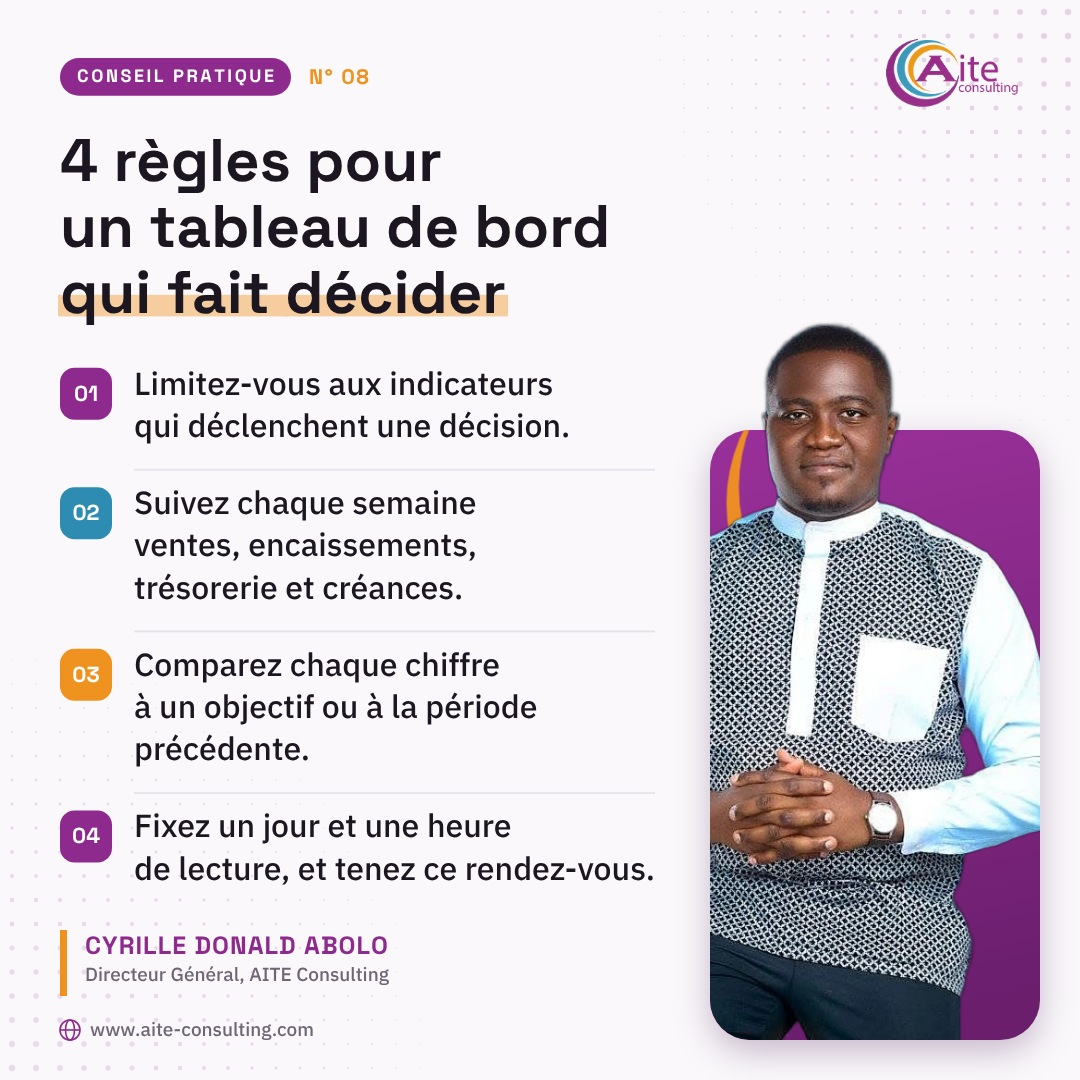
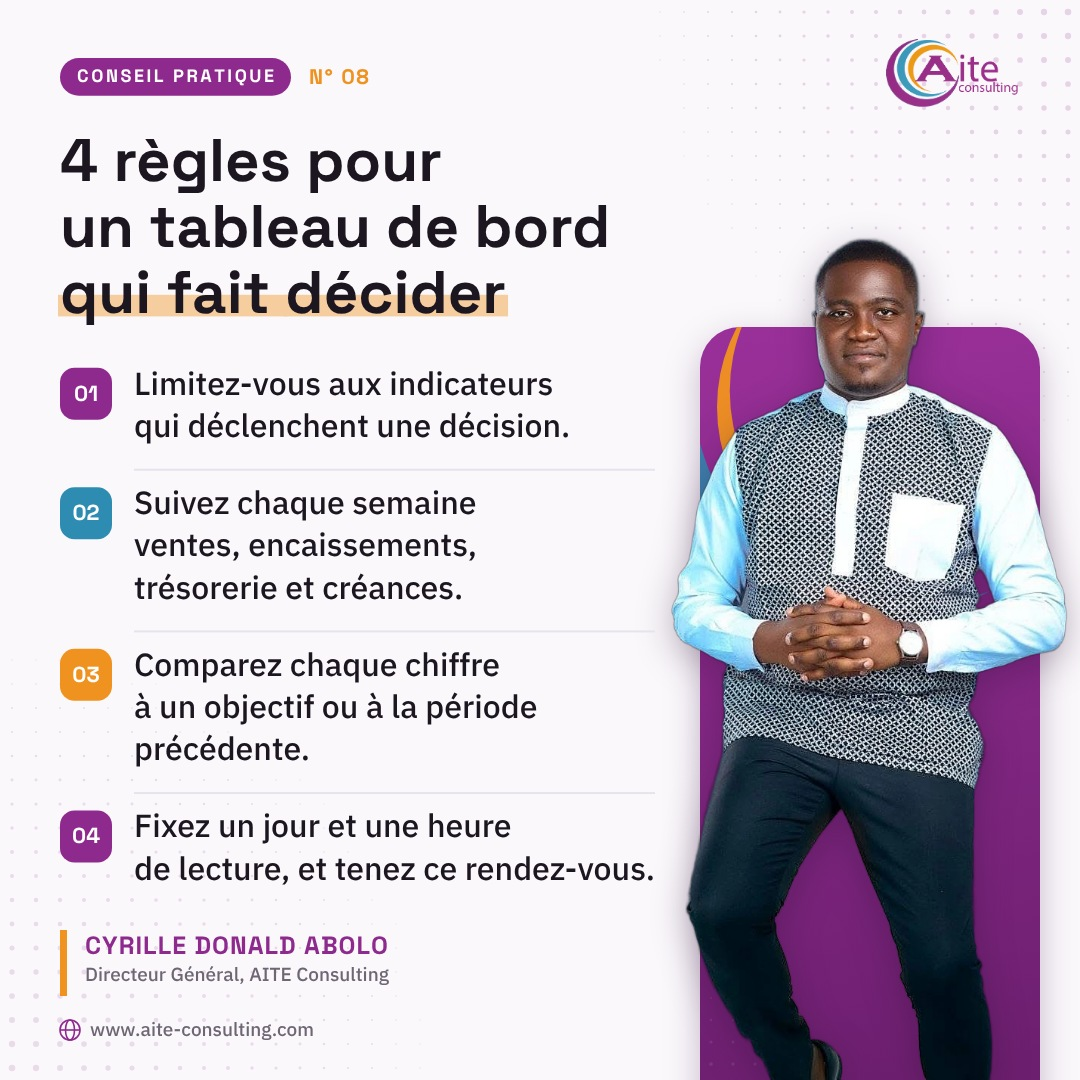
Studio de contenus : silhouette du DG toujours entière
À la demande du DG, la personne n'est plus coupée par les côtés du cadre
photo (bras, mains) sur les modèles conseil et citation :

- nouveau cadrage cadrer() : la silhouette tient en entier dans sa bande,
  réduite si elle est trop large, et seul le bas de la photo peut être coupé
  (par le bord du visuel ou le bas de la carte) ;
- conseil : la personne se tient devant le bloc violet, qui descend jusqu'au
  bas du visuel et commence sous le menton ; la tête dépasse ;
- citation : la personne tient entière dans la carte, à droite du panneau ;
  en story, la carte descend jusqu'en bas et la signature passe à gauche de
  la personne ;
- les photos plein pied (tunique) apparaissent en entier quand la place le
  permet.

Les 30 visuels de sortie/ sont régénérés.

Claude-Session: https://claude.ai/code/session_01BJXucC3E4E9DNEtwEhWB9o

Changed region(s): [[0.6111, 0.2139, 1.0, 1.0]]

diff --git a/studio-contenus/src/rendu.js b/studio-contenus/src/rendu.js
@@ -406,22 +406,39 @@
     return min === Infinity ? Infinity : pl.x + min * pl.e;
   }
 
-  function bordDroit(ph, pl, y1, y2) {
-    let max = -Infinity;
-    const a = Math.max(0, Math.floor((y1 - pl.y) / pl.e)), b = Math.min(ph.h - 1, Math.ceil((y2 - pl.y) / pl.e));
-    for (let y = a; y <= b; y++) if (ph.droite[y] >= 0) max = Math.max(max, ph.droite[y]);
-    return max === -Infinity ? -Infinity : pl.x + max * pl.e;
+  // Cadre la personne entière dans la bande [x1, x2] : jamais coupée sur les
+  // côtés, seulement en bas (bord du visuel ou du cadre, à la hauteur bas).
+  // La tête mesure au plus teteH ; si la silhouette est trop large, la personne
+  // est réduite, et descend pour que le bas de la photo tombe sur le bas de la zone
+  // (sans remonter au-dessus de hautMin).
+  function cadrer(ph, z) {
+    const tete = Math.max(1, ph.menton - ph.teteHaut);
+    const emax = z.teteH / tete;
+    const mesurer = e => {
+      const haut = Math.max(z.hautMin, z.bas - e * (ph.h - ph.teteHaut));
+      const y = haut - ph.teteHaut * e;
+      const derniere = Math.min(ph.h - 1, Math.floor((z.bas - y) / e));
+      let g = Infinity, d = -Infinity;
+      for (let r = 0; r <= derniere; r++) if (ph.gauche[r] >= 0) { g = Math.min(g, ph.gauche[r]); d = Math.max(d, ph.droite[r]); }
+      return { haut, y, g, d };
+    };
+    let e = emax;
+    for (let i = 0; i < 6; i++) {
+      const m = mesurer(e);
+      const e2 = Math.min(emax, (z.x2 - z.x1) / Math.max(1, m.d - m.g));
+      if (Math.abs(e2 - e) < 1e-4) break;
+      e = e2;
+    }
+    const m = mesurer(e);
+    return { e, y: m.y, x: (z.x1 + z.x2) / 2 - (m.g + m.d) / 2 * e, haut: m.haut, tete: tete * e };
   }
 
-  // Décale la personne vers la gauche si ses mains touchent le bord droit du
-  // cadre (le bras gauche, lui, peut sortir du cadre), sans trop excentrer le visage.
-  function degagerMains(ph, pl, cadre, visageX) {
-    if (!ph.detouree) return pl;
-    const limite = cadre.x + cadre.l - 12;
-    const dr = bordDroit(ph, pl, cadre.y, cadre.y + cadre.h);
-    const dx = Math.min(dr - limite, visageX - (cadre.x + cadre.l * 0.36));
-    if (dx > 0) pl.x -= dx;
-    return pl;
+  function silhouette(ctx, ph, pl, bas, ombre) {
+    ctx.save();
+    ctx.beginPath(); ctx.rect(-50, -50, 99999, bas + 50); ctx.clip();
+    if (ombre) { ctx.shadowColor = ombre; ctx.shadowBlur = 36; ctx.shadowOffsetY = 10; }
+    ctx.drawImage(ph.img, pl.x, pl.y, ph.l * pl.e, ph.h * pl.e);
+    ctx.restore();
   }
 
   // Dessine la personne dans un cadre arrondi ; la tête peut dépasser au-dessus du cadre.
@@ -491,7 +508,7 @@
     if (!story) {
       panneau = ph ? { x: 40, y: 170 + 40 * (k - 1), l: 600, h: H - 170 - 40 * (k - 1) - 210 } : { x: 40, y: 170, l: W - 80, h: H - 170 - 190 };
       carte = { x: 600, y: 250 + 60 * (k - 1), l: 440, h: H - 250 - 60 * (k - 1) - 180, r: 40 };
-      regle = { visageX: 832, teteHaut: carte.y - 62, teteH: 205 + 45 * (k - 1) };
+      regle = { teteH: 205 + 45 * (k - 1) };
       sigPos = { x: carte.x + 8, y: carte.y + carte.h + 34, largeur: W - carte.x - 48 };
       sitePos = { x: 64, y: H - 50 };
       logoPos = { x: W - 48, y: 26, h: 80 };
@@ -499,12 +516,14 @@
       cadreLigne = ph ? { x: 250, y: 128, l: 740, h: bas - 128 } : { x: 250, y: 128, l: 740, h: panneau.h - 60 };
     } else {
       panneau = { x: 56, y: 280, l: W - 112, h: ph ? 790 : 1000 };
-      carte = { x: 110, y: 1185, l: W - 220, h: 430, r: 44 };
-      regle = { visageX: W / 2 + 40, teteHaut: 1100, teteH: 250 };
-      sigPos = { x: 130, y: 1645, largeur: W - 260 };
-      sitePos = { x: W / 2, y: 1785, centre: true };
+      // la carte descend jusqu'au bas du visuel : la personne y tient debout,
+      // la signature à sa gauche
+      carte = { x: 70, y: 1170, l: W - 140, h: H - 1170 + 60, r: 44 };
+      regle = { teteH: 250 };
+      sigPos = { x: 110, y: 1330, largeur: 400 };
+      sitePos = ph ? { x: 110, y: 1475 } : { x: W / 2, y: 1785, centre: true };
       logoPos = { x: W - 64, y: 118, h: 92 };
-      cadreLigne = { x: 150, y: 235, l: W - 300, h: ph ? 1250 : 800 };
+      cadreLigne = { x: 150, y: 235, l: W - 300, h: ph ? 1065 : 800 };
     }
 
     ctx.save();
@@ -520,8 +539,14 @@
       g.addColorStop(0, '#F3EAF4'); g.addColorStop(1, '#DCC8E0');
       remplirRect(ctx, carte.x, carte.y, carte.l, carte.h, carte.r, g);
       ctx.restore();
-      const pl = degagerMains(ph, placer(ph, regle, carte.y + carte.h), carte, regle.visageX);
-      personne(ctx, ph, carte, pl, { marge: 0 });
+      if (ph.detouree) {
+        const z = story
+          ? { x1: 530, x2: W - 80, bas: H, hautMin: panneau.y + panneau.h + 24, teteH: regle.teteH }
+          : { x1: panneau.x + panneau.l + 14, x2: carte.x + carte.l - 14, bas: carte.y + carte.h, hautMin: 150, teteH: regle.teteH };
+        silhouette(ctx, ph, cadrer(ph, z), z.bas);
+      } else {
+        personne(ctx, ph, carte, null, {});
+      }
     }
 
     // panneau violet
@@ -671,9 +696,17 @@
 
     // Bloc violet et personne. En story, le bloc occupe toute la largeur du
     // bas et porte aussi la signature ; sinon il tient la colonne de droite.
-    let bloc = null;
+    let bloc = null, pl = null, zp = null;
     if (ph || story) {
-      bloc = story ? { x: 50, y: 1290, l: W - 100, h: 470, r: 44 } : { x: 710, y: 430 + 120 * (k - 1), l: W - 710 - 40, h: H - 430 - 120 * (k - 1) - 40, r: 40 };
+      if (ph && ph.detouree) {
+        zp = story ? { x1: 600, x2: W - 30, bas: H, hautMin: 1150, teteH: 215 } : { x1: 672, x2: W - 14, bas: H, hautMin: 170, teteH: 172 + 40 * (k - 1) };
+        pl = cadrer(ph, zp);
+      }
+      // le bloc commence sous le menton (la tête dépasse) et descend jusqu'au bas du visuel
+      const haut = pl && !story ? Math.max(300, Math.min(560, pl.haut + pl.tete * 0.62)) : 430 + 120 * (k - 1);
+      bloc = story ? { x: 50, y: 1290, l: W - 100, h: H - 1290 + 60, r: 44 }
+        : pl ? { x: 700, y: haut, l: W - 700 - 40, h: H - haut + 60, r: 40 }
+        : { x: 710, y: haut, l: W - 710 - 40, h: H - haut - 40, r: 40 };
       ctx.save();
       ctx.shadowColor = 'rgba(67,18,74,.28)'; ctx.shadowBlur = 34; ctx.shadowOffsetY = 12;
       const gb = ctx.createLinearGradient(bloc.x, bloc.y, bloc.x + bloc.l * 0.4, bloc.y + bloc.h);
@@ -683,19 +716,13 @@
       ctx.save();
       ctx.beginPath(); rect(ctx, bloc.x, bloc.y, bloc.l, bloc.h, bloc.r); ctx.clip();
       const zone = story ? { x: bloc.x + bloc.l - 420, l: 420 } : { x: bloc.x, l: bloc.l };
-      const cxr = zone.x + zone.l * 0.55, cyr = bloc.y + (story ? bloc.h * 0.22 : bloc.h * 0.12);
+      const cxr = zone.x + zone.l * 0.55, cyr = bloc.y + (story ? 150 : 80);
       croissant(ctx, cxr, cyr, zone.l * 0.62, zone.l * 0.07, -0.7, 'rgba(46,140,178,.85)');
       croissant(ctx, cxr, cyr, zone.l * 0.50, zone.l * 0.055, -0.7, 'rgba(240,146,31,.95)');
       trame(ctx, bloc, [bloc.x, bloc.y + bloc.h], bloc.l * 0.6, { couleur: 'rgba(255,255,255,.09)', pas: 22, rMax: 3 });
       ctx.restore();
-      if (ph) {
-        const regle = story ? { visageX: zone.x + zone.l * 0.52, teteHaut: bloc.y - 125, teteH: 215 } : { visageX: bloc.x + bloc.l * 0.52, teteHaut: bloc.y - 105, teteH: 172 };
-        const cadre = story ? { x: zone.x - 40, y: bloc.y, l: zone.l + 40 + (bloc.x + bloc.l - zone.x - zone.l), h: bloc.h, r: bloc.r } : bloc;
-        ctx.save();
-        ctx.beginPath(); rect(ctx, bloc.x, 0, bloc.l, bloc.y + bloc.h, story ? 0 : bloc.r); ctx.clip();
-        personne(ctx, ph, cadre, degagerMains(ph, placer(ph, regle, bloc.y + bloc.h), cadre, regle.visageX), { marge: 0 });
-        ctx.restore();
-      }
+      if (pl) silhouette(ctx, ph, pl, H, 'rgba(40,10,45,.30)');
+      else if (ph) personne(ctx, ph, bloc, null, {});
     }
 
     // en-tête : étiquette, numéro, logo
@@ -755,7 +782,7 @@
     // pied : signature et site
     const site = pub.site || SITE;
     if (story) {
-      const sx = bloc.x + 44, sy = bloc.y + bloc.h - 190;
+      const sx = bloc.x + 44, sy = 1560;
       signature(ctx, sig, sx, sy, { hauteur: 84, retrait: 18, largeur: ph ? 470 : bloc.l - 88, tailleNom: 31, tailleFonction: 23, couleurNom: C.blanc, couleurFonction: C.mauveTexte });
       ctx.font = police(500, 24, TEXTE); ctx.fillStyle = C.mauveTexte; ctx.textBaseline = 'middle';
       globe(ctx, sx + 12, sy + 132, 12, C.mauveTexte);

diff --git a/studio-contenus/studio.html b/studio-contenus/studio.html
@@ -610,22 +610,39 @@
     return min === Infinity ? Infinity : pl.x + min * pl.e;
   }
 
-  function bordDroit(ph, pl, y1, y2) {
-    let max = -Infinity;
-    const a = Math.max(0, Math.floor((y1 - pl.y) / pl.e)), b = Math.min(ph.h - 1, Math.ceil((y2 - pl.y) / pl.e));
-    for (let y = a; y <= b; y++) if (ph.droite[y] >= 0) max = Math.max(max, ph.droite[y]);
-    return max === -Infinity ? -Infinity : pl.x + max * pl.e;
+  // Cadre la personne entière dans la bande [x1, x2] : jamais coupée sur les
+  // côtés, seulement en bas (bord du visuel ou du cadre, à la hauteur bas).
+  // La tête mesure au plus teteH ; si la silhouette est trop large, la personne
+  // est réduite, et descend pour que le bas de la photo tombe sur le bas de la zone
+  // (sans remonter au-dessus de hautMin).
+  function cadrer(ph, z) {
+    const tete = Math.max(1, ph.menton - ph.teteHaut);
+    const emax = z.teteH / tete;
+    const mesurer = e => {
+      const haut = Math.max(z.hautMin, z.bas - e * (ph.h - ph.teteHaut));
+      const y = haut - ph.teteHaut * e;
+      const derniere = Math.min(ph.h - 1, Math.floor((z.bas - y) / e));
+      let g = Infinity, d = -Infinity;
+      for (let r = 0; r <= derniere; r++) if (ph.gauche[r] >= 0) { g = Math.min(g, ph.gauche[r]); d = Math.max(d, ph.droite[r]); }
+      return { haut, y, g, d };
+    };
+    let e = emax;
+    for (let i = 0; i < 6; i++) {
+      const m = mesurer(e);
+      const e2 = Math.min(emax, (z.x2 - z.x1) / Math.max(1, m.d - m.g));
+      if (Math.abs(e2 - e) < 1e-4) break;
+      e = e2;
+    }
+    const m = mesurer(e);
+    return { e, y: m.y, x: (z.x1 + z.x2) / 2 - (m.g + m.d) / 2 * e, haut: m.haut, tete: tete * e };
   }
 
-  // Décale la personne vers la gauche si ses mains touchent le bord droit du
-  // cadre (le bras gauche, lui, peut sortir du cadre), sans trop excentrer le visage.
-  function degagerMains(ph, pl, cadre, visageX) {
-    if (!ph.detouree) return pl;
-    const limite = cadre.x + cadre.l - 12;
-    const dr = bordDroit(ph, pl, cadre.y, cadre.y + cadre.h);
-    const dx = Math.min(dr - limite, visageX - (cadre.x + cadre.l * 0.36));
-    if (dx > 0) pl.x -= dx;
-    return pl;
+  function silhouette(ctx, ph, pl, bas, ombre) {
+    ctx.save();
+    ctx.beginPath(); ctx.rect(-50, -50, 99999, bas + 50); ctx.clip();
+    if (ombre) { ctx.shadowColor = ombre; ctx.shadowBlur = 36; ctx.shadowOffsetY = 10; }
+    ctx.drawImage(ph.img, pl.x, pl.y, ph.l * pl.e, ph.h * pl.e);
+    ctx.restore();
   }
 
   // Dessine la personne dans un cadre arrondi ; la tête peut dépasser au-dessus du cadre.
@@ -695,7 +712,7 @@
     if (!story) {
       panneau = ph ? { x: 40, y: 170 + 40 * (k - 1), l: 600, h: H - 170 - 40 * (k - 1) - 210 } : { x: 40, y: 170, l: W - 80, h: H - 170 - 190 };
       carte = { x: 600, y: 250 + 60 * (k - 1), l: 440, h: H - 250 - 60 * (k - 1) - 180, r: 40 };
-      regle = { visageX: 832, teteHaut: carte.y - 62, teteH: 205 + 45 * (k - 1) };
+      regle = { teteH: 205 + 45 * (k - 1) };
       sigPos = { x: carte.x + 8, y: carte.y + carte.h + 34, largeur: W - carte.x - 48 };
       sitePos = { x: 64, y: H - 50 };
       logoPos = { x: W - 48, y: 26, h: 80 };
@@ -703,12 +720,14 @@
       cadreLigne = ph ? { x: 250, y: 128, l: 740, h: bas - 128 } : { x: 250, y: 128, l: 740, h: panneau.h - 60 };
     } else {
       panneau = { x: 56, y: 280, l: W - 112, h: ph ? 790 : 1000 };
-      carte = { x: 110, y: 1185, l: W - 220, h: 430, r: 44 };
-      regle = { visageX: W / 2 + 40, teteHaut: 1100, teteH: 250 };
-      sigPos = { x: 130, y: 1645, largeur: W - 260 };
-      sitePos = { x: W / 2, y: 1785, centre: true };
+      // la carte descend jusqu'au bas du visuel : la personne y tient debout,
+      // la signature à sa gauche
+      carte = { x: 70, y: 1170, l: W - 140, h: H - 1170 + 60, r: 44 };
+      regle = { teteH: 250 };
+      sigPos = { x: 110, y: 1330, largeur: 400 };
+      sitePos = ph ? { x: 110, y: 1475 } : { x: W / 2, y: 1785, centre: true };
       logoPos = { x: W - 64, y: 118, h: 92 };
-      cadreLigne = { x: 150, y: 235, l: W - 300, h: ph ? 1250 : 800 };
+      cadreLigne = { x: 150, y: 235, l: W - 300, h: ph ? 1065 : 800 };
     }
 
     ctx.save();
@@ -724,8 +743,14 @@
       g.addColorStop(0, '#F3EAF4'); g.addColorStop(1, '#DCC8E0');
       remplirRect(ctx, carte.x, carte.y, carte.l, carte.h, carte.r, g);
       ctx.restore();
-      const pl = degagerMains(ph, placer(ph, regle, carte.y + carte.h), carte, regle.visageX);
-      personne(ctx, ph, carte, pl, { marge: 0 });
+      if (ph.detouree) {
+        const z = story
+          ? { x1: 530, x2: W - 80, bas: H, hautMin: panneau.y + panneau.h + 24, teteH: regle.teteH }
+          : { x1: panneau.x + panneau.l + 14, x2: carte.x + carte.l - 14, bas: carte.y + carte.h, hautMin: 150, teteH: regle.teteH };
+        silhouette(ctx, ph, cadrer(ph, z), z.bas);
+      } else {
+        personne(ctx, ph, carte, null, {});
+      }
     }
 
     // panneau violet
@@ -875,9 +900,17 @@
 
     // Bloc violet et personne. En story, le bloc occupe toute la largeur du
     // bas et porte aussi la signature ; sinon il tient la colonne de droite.
-    let bloc = null;
+    let bloc = null, pl = null, zp = null;
     if (ph || story) {
-      bloc = story ? { x: 50, y: 1290, l: W - 100, h: 470, r: 44 } : { x: 710, y: 430 + 120 * (k - 1), l: W - 710 - 40, h: H - 430 - 120 * (k - 1) - 40, r: 40 };
+      if (ph && ph.detouree) {
+        zp = story ? { x1: 600, x2: W - 30, bas: H, hautMin: 1150, teteH: 215 } : { x1: 672, x2: W - 14, bas: H, hautMin: 170, teteH: 172 + 40 * (k - 1) };
+        pl = cadrer(ph, zp);
+      }
+      // le bloc commence sous le menton (la tête dépasse) et descend jusqu'au bas du visuel
+      const haut = pl && !story ? Math.max(300, Math.min(560, pl.haut + pl.tete * 0.62)) : 430 + 120 * (k - 1);
+      bloc = story ? { x: 50, y: 1290, l: W - 100, h: H - 1290 + 60, r: 44 }
+        : pl ? { x: 700, y: haut, l: W - 700 - 40, h: H - haut + 60, r: 40 }
+        : { x: 710, y: haut, l: W - 710 - 40, h: H - haut - 40, r: 40 };
       ctx.save();
       ctx.shadowColor = 'rgba(67,18,74,.28)'; ctx.shadowBlur = 34; ctx.shadowOffsetY = 12;
       const gb = ctx.createLinearGradient(bloc.x, bloc.y, bloc.x + bloc.l * 0.4, bloc.y + bloc.h);
@@ -887,19 +920,13 @@
       ctx.save();
       ctx.beginPath(); rect(ctx, bloc.x, bloc.y, bloc.l, bloc.h, bloc.r); ctx.clip();
       const zone = story ? { x: bloc.x + bloc.l - 420, l: 420 } : { x: bloc.x, l: bloc.l };
-      const cxr = zone.x + zone.l * 0.55, cyr = bloc.y + (story ? bloc.h * 0.22 : bloc.h * 0.12);
+      const cxr = zone.x + zone.l * 0.55, cyr = bloc.y + (story ? 150 : 80);
       croissant(ctx, cxr, cyr, zone.l * 0.62, zone.l * 0.07, -0.7, 'rgba(46,140,178,.85)');
       croissant(ctx, cxr, cyr, zone.l * 0.50, zone.l * 0.055, -0.7, 'rgba(240,146,31,.95)');
       trame(ctx, bloc, [bloc.x, bloc.y + bloc.h], bloc.l * 0.6, { couleur: 'rgba(255,255,255,.09)', pas: 22, rMax: 3 });
       ctx.restore();
-      if (ph) {
-        const regle = story ? { visageX: zone.x + zone.l * 0.52, teteHaut: bloc.y - 125, teteH: 215 } : { visageX: bloc.x + bloc.l * 0.52, teteHaut: bloc.y - 105, teteH: 172 };
-        const cadre = story ? { x: zone.x - 40, y: bloc.y, l: zone.l + 40 + (bloc.x + bloc.l - zone.x - zone.l), h: bloc.h, r: bloc.r } : bloc;
-        ctx.save();
-        ctx.beginPath(); rect(ctx, bloc.x, 0, bloc.l, bloc.y + bloc.h, story ? 0 : bloc.r); ctx.clip();
-        personne(ctx, ph, cadre, degagerMains(ph, placer(ph, regle, bloc.y + bloc.h), cadre, regle.visageX), { marge: 0 });
-        ctx.restore();
-      }
+      if (pl) silhouette(ctx, ph, pl, H, 'rgba(40,10,45,.30)');
+      else if (ph) personne(ctx, ph, bloc, null, {});
     }
 
     // en-tête : étiquette, numéro, logo
@@ -959,7 +986,7 @@
     // pied : signature et site
     const site = pub.site || SITE;
     if (story) {
-      const sx = bloc.x + 44, sy = bloc.y + bloc.h - 190;
+      const sx = bloc.x + 44, sy = 1560;
       signature(ctx, sig, sx, sy, { hauteur: 84, retrait: 18, largeur: ph ? 470 : bloc.l - 88, tailleNom: 31, tailleFonction: 23, couleurNom: C.blanc, couleurFonction: C.mauveTexte });
       ctx.font = police(500, 24, TEXTE); ctx.fillStyle = C.mauveTexte; ctx.textBaseline = 'middle';
       globe(ctx, sx + 12, sy + 132, 12, C.mauveTexte);
